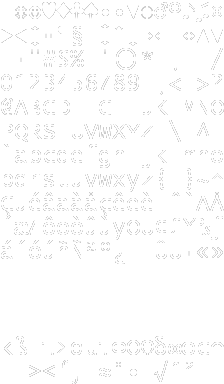
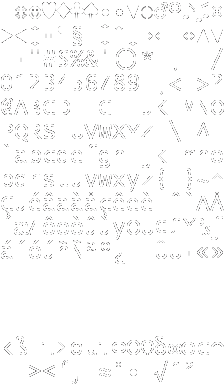
Wrote new integration test to generate symbol selection images
Regenerated symbol selection image
SymbolSelectionForm responds dynamically to symbol selection image size
Regenerated character images to include previoulsy-missing ampersands

diff --git a/Source/IntegrationTests/FontGenerator/SymbolImageGenerator.cs b/Source/IntegrationTests/FontGenerator/SymbolImageGenerator.cs
@@ -1,0 +1,111 @@
+using System;
+using System.Diagnostics;
+using System.Drawing;
+using System.Drawing.Imaging;
+using System.Drawing.Text;
+using System.Globalization;
+using System.IO;
+using System.Windows.Forms;
+
+using NUnit.Framework;
+
+namespace TextAdventure.IntegrationTests.FontGenerator
+{
+	[TestFixture]
+	[Explicit]
+	public class SymbolImageGenerator
+	{
+		private const int RegularHeight = 24;
+		private static readonly char[] _characters = new[] { '\u0020', '\u263a', '\u263b', '\u2665', '\u2666', '\u2663', '\u2660', '\u2022', '\u25d8', '\u25bc', '\u25d9', '\u2642', '\u2640', '\u266a', '\u266b', '\u263c', '\u25ba', '\u25c4', '\u2195', '\u203c', '\u00b6', '\u00a7', '\u25ac', '\u21a8', '\u2191', '\u2193', '\u2192', '\u2190', '\u221f', '\u2194', '\u25b2', '\u25bc', '\u0020', '\u0021', '\u0022', '\u0023', '\u0024', '\u0025', '\u0026', '\u0027', '\u0028', '\u0029', '\u002a', '\u002b', '\u002c', '\u002d', '\u002e', '\u002f', '\u0030', '\u0031', '\u0032', '\u0033', '\u0034', '\u0035', '\u0036', '\u0037', '\u0038', '\u0039', '\u003a', '\u003b', '\u003c', '\u003d', '\u003e', '\u003f', '\u0040', '\u0041', '\u0042', '\u0043', '\u0044', '\u0045', '\u0046', '\u0047', '\u0048', '\u0049', '\u004a', '\u004b', '\u004c', '\u004d', '\u004e', '\u004f', '\u0050', '\u0051', '\u0052', '\u0053', '\u0054', '\u0055', '\u0056', '\u0057', '\u0058', '\u0059', '\u005a', '\u005b', '\u005c', '\u005d', '\u005e', '\u005f', '\u0060', '\u0061', '\u0062', '\u0063', '\u0064', '\u0065', '\u0066', '\u0067', '\u0068', '\u0069', '\u006a', '\u006b', '\u006c', '\u006d', '\u006e', '\u006f', '\u0070', '\u0071', '\u0072', '\u0073', '\u0074', '\u0075', '\u0076', '\u0077', '\u0078', '\u0079', '\u007a', '\u007b', '\u007c', '\u007d', '\u007e', '\u2302', '\u00c7', '\u00fc', '\u00e9', '\u00e2', '\u00e4', '\u00e0', '\u00e5', '\u00e7', '\u00ea', '\u00eb', '\u00e8', '\u00ef', '\u00ee', '\u00ec', '\u00c4', '\u00c5', '\u00c9', '\u00e6', '\u00c6', '\u00f4', '\u00f6', '\u00f2', '\u00fb', '\u00f9', '\u00ff', '\u00d6', '\u00dc', '\u00a2', '\u00a3', '\u00a5', '\u20a7', '\u0192', '\u00e1', '\u00ed', '\u00f3', '\u00fa', '\u00f1', '\u00d1', '\u00aa', '\u00ba', '\u00bf', '\u2310', '\u00ac', '\u00db', '\u00dc', '\u00a1', '\u00ab', '\u00bb', '\u2591', '\u2592', '\u2593', '\u2502', '\u2524', '\u2561', '\u2562', '\u2556', '\u2555', '\u2563', '\u2551', '\u2557', '\u255d', '\u255c', '\u255b', '\u2510', '\u2514', '\u2534', '\u252c', '\u251c', '\u2500', '\u253c', '\u255e', '\u255f', '\u255a', '\u2554', '\u2569', '\u2566', '\u2560', '\u2550', '\u256c', '\u2567', '\u2568', '\u2564', '\u2565', '\u2559', '\u2558', '\u2552', '\u2553', '\u256b', '\u256a', '\u2518', '\u250c', '\u2588', '\u2584', '\u258c', '\u2590', '\u2580', '\u03ba', '\u00df', '\u0393', '\u03c0', '\u03a3', '\u03c3', '\u00b5', '\u03c4', '\u03a6', '\u0398', '\u03a9', '\u03b4', '\u221e', '\u03c6', '\u03b5', '\u2229', '\u2261', '\u00b1', '\u2265', '\u2264', '\u2320', '\u2321', '\u00f7', '\u2248', '\u00b0', '\u2219', '\u00b7', '\u221a', '\u207f', '\u00b2', '\u25a0', '\u00a0' };
+
+		private static void GenerateImage(int fontHeight, int symbolsWide, Color backgroundColor, int imagePadding, int symbolPadding)
+		{
+			const TextFormatFlags textFormatFlags = TextFormatFlags.NoPadding | TextFormatFlags.NoPrefix;
+			var font = new Font("Lucida Console", fontHeight, FontStyle.Regular, GraphicsUnit.Pixel);
+			Image measureImage = new Bitmap(1, 1);
+			Size characterSize;
+
+			using (Graphics graphics = Graphics.FromImage(measureImage))
+			{
+				characterSize = TextRenderer.MeasureText(graphics, '\u2588'.ToString(CultureInfo.InvariantCulture), font, Size.Empty, textFormatFlags);
+			}
+
+			measureImage.Dispose();
+
+			var symbolsHigh = (int)Math.Ceiling(256.0 / symbolsWide);
+			Image fontImage = new Bitmap(
+				(imagePadding * 2) + (characterSize.Width * symbolsWide) + (symbolPadding * 2 * (symbolsWide - 1)),
+				(imagePadding * 2) + (characterSize.Height * symbolsHigh) + (symbolPadding * 2 * (symbolsHigh - 1)),
+				PixelFormat.Format32bppArgb);
+
+			using (Graphics graphics = Graphics.FromImage(fontImage))
+			{
+				using (Brush brush = new SolidBrush(backgroundColor))
+				{
+					graphics.FillRectangle(brush, 0, 0, fontImage.Width, fontImage.Height);
+				}
+
+				int index = 0;
+
+				for (int y = 0; index < _characters.Length; y++)
+				{
+					for (int x = 0; x < symbolsWide && index < _characters.Length; x++, index++)
+					{
+						graphics.TextRenderingHint = TextRenderingHint.AntiAliasGridFit;
+
+						string character = _characters[index].ToString(CultureInfo.InvariantCulture);
+						Size size = TextRenderer.MeasureText(graphics, character, font, characterSize, textFormatFlags);
+
+						if (size.Width == 0 || size.Height == 0)
+						{
+							continue;
+						}
+
+						var rectangle = new Rectangle(
+							imagePadding + (x * characterSize.Width) + (x * symbolPadding * 2),
+							imagePadding + (y * characterSize.Height) + (y * symbolPadding * 2),
+							characterSize.Width,
+							characterSize.Height);
+
+						TextRenderer.DrawText(
+							graphics,
+							character,
+							font,
+							rectangle,
+							Color.White,
+							backgroundColor,
+							textFormatFlags);
+					}
+				}
+			}
+
+			font.Dispose();
+
+			string path = Path.GetTempFileName() + ".png";
+
+			fontImage.Save(path, ImageFormat.Png);
+			fontImage.Dispose();
+
+			var processStartInfo = new ProcessStartInfo(path)
+			                       	{
+			                       		UseShellExecute = true
+			                       	};
+
+			Process.Start(processStartInfo);
+
+			Console.WriteLine("Character size is {0} x {1}", characterSize.Width, characterSize.Height);
+		}
+
+		[Test]
+		public void GenerateCharactersImage()
+		{
+			GenerateImage(RegularHeight, 16, Color.Transparent, 0, 0);
+		}
+
+		[Test]
+		public void GenerateSymbolSelectionImage()
+		{
+			GenerateImage(RegularHeight * 2, 24, Color.Black, 4, 4);
+		}
+	}
+}

diff --git a/Source/Editor/Forms/SymbolSelectionForm.Designer.cs b/Source/Editor/Forms/SymbolSelectionForm.Designer.cs
@@ -28,31 +28,32 @@
 		/// </summary>
 		private void InitializeComponent()
 		{
-			System.Windows.Forms.Button buttonCancel;
 			System.ComponentModel.ComponentResourceManager resources = new System.ComponentModel.ComponentResourceManager(typeof(SymbolSelectionForm));
+			this.buttonCancel = new System.Windows.Forms.Button();
 			this.pictureBoxSymbols = new System.Windows.Forms.PictureBox();
-			buttonCancel = new System.Windows.Forms.Button();
 			((System.ComponentModel.ISupportInitialize)(this.pictureBoxSymbols)).BeginInit();
 			this.SuspendLayout();
 			// 
 			// buttonCancel
 			// 
-			buttonCancel.Anchor = ((System.Windows.Forms.AnchorStyles)((System.Windows.Forms.AnchorStyles.Bottom | System.Windows.Forms.AnchorStyles.Right)));
-			buttonCancel.DialogResult = System.Windows.Forms.DialogResult.Cancel;
-			buttonCancel.Location = new System.Drawing.Point(780, 624);
-			buttonCancel.Name = "buttonCancel";
-			buttonCancel.Size = new System.Drawing.Size(76, 24);
-			buttonCancel.TabIndex = 0;
-			buttonCancel.Text = "Cancel";
-			buttonCancel.UseVisualStyleBackColor = true;
+			this.buttonCancel.Anchor = ((System.Windows.Forms.AnchorStyles)((System.Windows.Forms.AnchorStyles.Bottom | System.Windows.Forms.AnchorStyles.Right)));
+			this.buttonCancel.DialogResult = System.Windows.Forms.DialogResult.Cancel;
+			this.buttonCancel.Location = new System.Drawing.Point(210, 240);
+			this.buttonCancel.Name = "buttonCancel";
+			this.buttonCancel.Size = new System.Drawing.Size(76, 24);
+			this.buttonCancel.TabIndex = 0;
+			this.buttonCancel.Text = "Cancel";
+			this.buttonCancel.UseVisualStyleBackColor = true;
 			// 
 			// pictureBoxSymbols
 			// 
+			this.pictureBoxSymbols.Anchor = ((System.Windows.Forms.AnchorStyles)((((System.Windows.Forms.AnchorStyles.Top | System.Windows.Forms.AnchorStyles.Bottom) 
+            | System.Windows.Forms.AnchorStyles.Left) 
+            | System.Windows.Forms.AnchorStyles.Right)));
 			this.pictureBoxSymbols.Cursor = System.Windows.Forms.Cursors.Hand;
-			this.pictureBoxSymbols.Dock = System.Windows.Forms.DockStyle.Top;
 			this.pictureBoxSymbols.Location = new System.Drawing.Point(0, 0);
 			this.pictureBoxSymbols.Name = "pictureBoxSymbols";
-			this.pictureBoxSymbols.Size = new System.Drawing.Size(864, 616);
+			this.pictureBoxSymbols.Size = new System.Drawing.Size(294, 232);
 			this.pictureBoxSymbols.TabIndex = 0;
 			this.pictureBoxSymbols.TabStop = false;
 			this.pictureBoxSymbols.Paint += new System.Windows.Forms.PaintEventHandler(this.PictureBoxSymbolsOnPaint);
@@ -63,9 +64,9 @@
 			// 
 			this.AutoScaleDimensions = new System.Drawing.SizeF(6F, 13F);
 			this.AutoScaleMode = System.Windows.Forms.AutoScaleMode.Font;
-			this.CancelButton = buttonCancel;
-			this.ClientSize = new System.Drawing.Size(864, 656);
-			this.Controls.Add(buttonCancel);
+			this.CancelButton = this.buttonCancel;
+			this.ClientSize = new System.Drawing.Size(294, 272);
+			this.Controls.Add(this.buttonCancel);
 			this.Controls.Add(this.pictureBoxSymbols);
 			this.Font = new System.Drawing.Font("Tahoma", 8.25F, System.Drawing.FontStyle.Regular, System.Drawing.GraphicsUnit.Point, ((byte)(0)));
 			this.FormBorderStyle = System.Windows.Forms.FormBorderStyle.FixedSingle;
@@ -84,6 +85,7 @@
 		#endregion
 
 		private System.Windows.Forms.PictureBox pictureBoxSymbols;
+		private System.Windows.Forms.Button buttonCancel;
 
 	}
 }

diff --git a/Source/Editor/Forms/SymbolSelectionForm.cs b/Source/Editor/Forms/SymbolSelectionForm.cs
@@ -1,4 +1,5 @@
-using System.Drawing;
+using System;
+using System.Drawing;
 using System.Windows.Forms;
 
 using TextAdventure.Editor.Properties;
@@ -7,6 +8,10 @@ namespace TextAdventure.Editor.Forms
 {
 	public partial class SymbolSelectionForm : Form
 	{
+		private const int SymbolsHigh = 11;
+		private const int SymbolsWide = 24;
+		private static readonly int _symbolHeight = Resources.Symbol_Selection.Height / SymbolsHigh;
+		private static readonly int _symbolWidth = Resources.Symbol_Selection.Width / SymbolsWide;
 		private byte _selectedSymbol;
 		private Rectangle _selectedSymbolRectangle;
 
@@ -51,17 +56,21 @@ namespace TextAdventure.Editor.Forms
 
 		private static Rectangle GetSymbolRectangle(byte symbol)
 		{
-			const int tileWidth = (TextAdventure.Xna.Constants.Tile.TileWidth * 2) + 8;
-			const int tileHeight = (TextAdventure.Xna.Constants.Tile.TileHeight * 2) + 8;
+			return new Rectangle((symbol % SymbolsWide) * _symbolWidth, (symbol / 24) * _symbolHeight, _symbolWidth, _symbolHeight);
+		}
 
-			return new Rectangle((symbol % 24) * tileWidth, (symbol / 24) * tileHeight, tileWidth, tileHeight);
+		protected override void OnHandleCreated(EventArgs e)
+		{
+			SetClientSizeCore(Resources.Symbol_Selection.Width, Resources.Symbol_Selection.Height + buttonCancel.Height + 16);
+
+			base.OnHandleCreated(e);
 		}
 
 		private void PictureBoxSymbolsOnMouseMove(object sender, MouseEventArgs e)
 		{
-			int symbolX = e.X / ((TextAdventure.Xna.Constants.Tile.TileWidth * 2) + 8);
-			int symbolY = e.Y / ((TextAdventure.Xna.Constants.Tile.TileHeight * 2) + 8);
-			int selectedSymbol = (symbolY * 24) + symbolX;
+			int symbolX = e.X / _symbolWidth;
+			int symbolY = e.Y / _symbolHeight;
+			int selectedSymbol = (symbolY * SymbolsWide) + symbolX;
 
 			SetSelectedSymbol(selectedSymbol > 255 ? (byte)0 : (byte)selectedSymbol);
 		}
